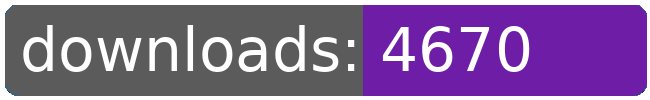
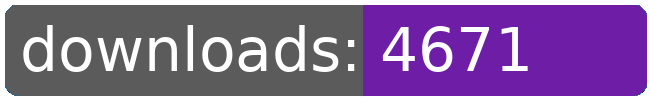
dl log written

Changed region(s): [[0.7692, 0.24, 0.8308, 0.72]]

diff --git a/README.md b/README.md
@@ -21,8 +21,8 @@
 		<td>4605</td>
 		<td>4630</td>
 		<td>4656</td>
-		<td>4670</td>
-		<td>+ 14</td>
+		<td>4671</td>
+		<td>+ 15</td>
 	</tr>
 	<tr>
 		<td>aberrant.kahet.outfitter</td>
@@ -274,8 +274,8 @@
 		<td></td>
 		<td></td>
 		<td></td>
-		<td>70137</td>
-		<td>227</td>
+		<td>70138</td>
+		<td>228</td>
 	</tr>
 </table>
 </sub></sup>
@@ -300,8 +300,8 @@
 		<td>4605</td>
 		<td>4630</td>
 		<td>4656</td>
-		<td>4670</td>
-		<td>+ 14</td>
+		<td>4671</td>
+		<td>+ 15</td>
 	</tr>
 	<tr>
 		<td>aberrant.kahet.outfitter</td>
@@ -553,8 +553,8 @@
 		<td></td>
 		<td></td>
 		<td></td>
-		<td>70137</td>
-		<td>227</td>
+		<td>70138</td>
+		<td>228</td>
 	</tr>
 </table>
 </sub></sup>
